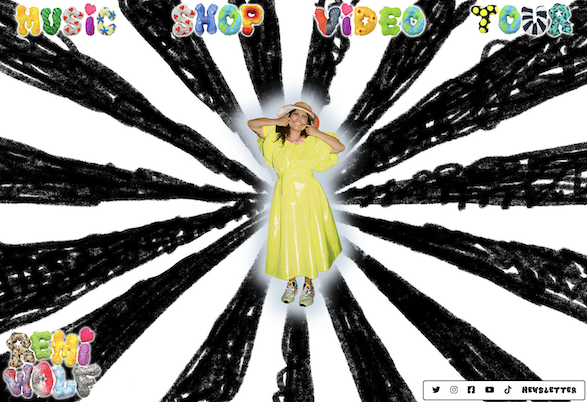
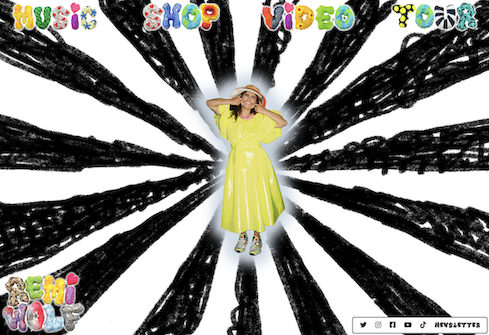
add baby keem, remove some stuff, restyle a bit

diff --git a/index.html b/index.html
@@ -39,8 +39,8 @@
     </div>
 
 
-    <div class="">
-      <h2 class="">about</h2>
+    <div>
+      <h2>about</h2>
       <In>I'm a computer science student at The Ohio State University graduating December 2022. I am interested web development, software engineering, and artificial intelligence. In Summer 2022, I was a Software Engineer Intern at JPMorgan Chase & Co. I am seeking full-time employment beginning in early 2023.</p>
     </div>
 
@@ -48,18 +48,25 @@
       <a class="button" href="resume.pdf">view my resume</a>
     </div>
 
-    <div class="">
-      <h2 class="">work</h2>
-      <p>Check out some of my work down below! Need something done? </p>
-      <p class="italic">email me: isaac.mattern[at]gmail.com</p>
+    <div>
+      <h2>work</h2>
+      <p>Check out some stuff I've worked on!</p>
+    </div>
+
+    <div class="project">
+      <a href="https://keem.science">
+        <img src="img/keem.png" alt="Baby Keem Page" class="project-image">
+      </a>
+      <a href="https://keem.science" class="link">Baby Keem</a>
+      <p>Worked with <a class="link p-link" href="https://peter.digital">Peter Campanelli</a> to develop a Shopify theme for Baby Keem</p>
     </div>
 
     <div class="project">
       <a href="https://remiwolf.com">
         <img src="img/remi-wolf.png" alt="Remi Wolf Page" class="project-image">
       </a>
-      <a href="https://remiwolf.com" class="link">remiwolf.com</a>
-      <p>Developed a Shopify theme for music artist Remi Wolf</p>
+      <a href="https://remiwolf.com" class="link">Remi Wolf</a>
+      <p>Worked with <a class="link p-link" href="https://peter.digital">Peter Campanelli</a> to develop a Shopify theme for Remi Wolf</p>
     </div>
 
     <div class="project">
@@ -72,30 +79,11 @@
     </div>
 
     <div class="project">
-      <a href="https://vim.peter.digital">
-        <img src="img/veeva.png" alt="Presciber Data Report Page" class="project-image">
-      </a>
-      <a href="https://vim.peter.digital" class="link">Prescriber Data Report</a>
-      <p>A data visualization tool with predictive analytics I made at <a class="link p-link" href="https://hack.osu.edu">Hack Ohio 2021</a>
-      </p>
-    </div>
-
-    <div class="project">
       <a href="https://colab.research.google.com/drive/1sj6Yd2Ckswmcwa5ZRH6Uk8mYffwVf07B?usp=sharing">
         <img src="img/wordle.png" alt="Presciber Data Report Page" class="project-image">
       </a>
       <a href="https://colab.research.google.com/drive/1sj6Yd2Ckswmcwa5ZRH6Uk8mYffwVf07B?usp=sharing" class="link">Wordle Bot</a>
       <p>A worldle solver I built using Python.
-      </p>
-    </div>
-
-    <div class="project">
-      <a href="https://github.com/isaacmattern/easy-edit">
-        <img src="img/easy-edit.png" alt="Remi Wolf Page" class="project-image">
-      </a>
-      <a href="https://github.com/isaacmattern/easy-edit" class="link">easy-edit</a>
-      <p>A command line text editor I wrote with the help of
-        <a class="link p-link" href="https://viewsourcecode.org/snaptoken/">Snaptoken</a>
       </p>
     </div>
 

diff --git a/styles.css b/styles.css
@@ -20,6 +20,7 @@ h1, h2, h3, h4, h5, h6 {
 
 h2 {
   font-size: 1.9rem;
+  margin-bottom: 4px;
 }
 
 .name {
@@ -112,6 +113,7 @@ body {
   width: 100%;
   border-radius: 12px;
   border: 1px solid var(--main-primary-color);
+  margin-bottom: 4px;
 }
 
 
